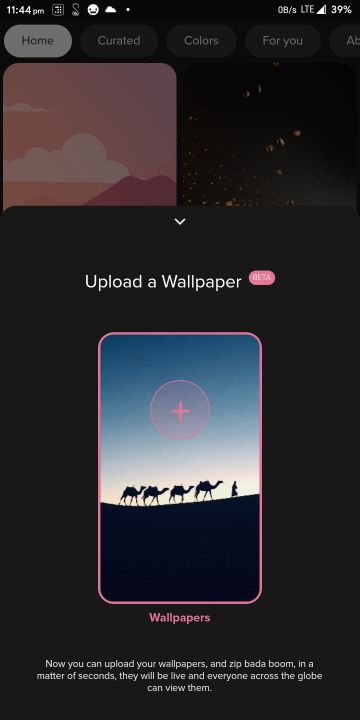
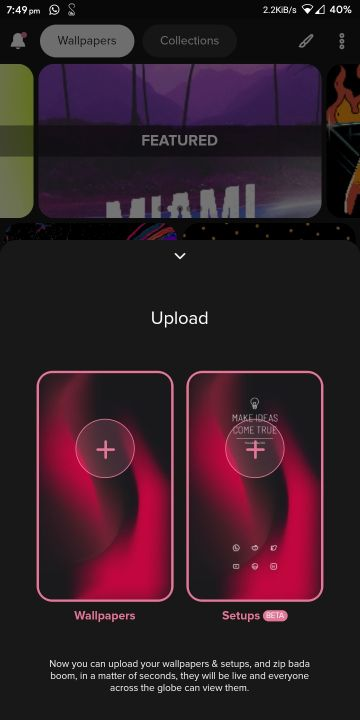
updated readme

diff --git a/README.md b/README.md
@@ -6,7 +6,7 @@
 ![flutter](https://img.shields.io/badge/Flutter-Framework-green?logo=flutter)
 ![Dart](https://img.shields.io/badge/Dart-Language-blue?logo=dart)
 ![Play Store Downloads](https://img.shields.io/badge/Play%20Store%20Downloads-10K+-green.svg)
-![Play Store Rating](https://img.shields.io/badge/Play%20Store%20Rating-4.1-blue.svg)
+![Play Store Rating](https://img.shields.io/badge/Play%20Store%20Rating-3.8-blue.svg)
 ![Size](https://img.shields.io/github/repo-size/Hash-Studios/Prism?color=green)
 ![Release](https://img.shields.io/github/v/release/Hash-Studios/Prism)
 ![License](https://img.shields.io/github/license/Hash-Studios/Prism)
@@ -20,9 +20,9 @@ Prism offers an exclusive collection of wallpapers that are beautifully hand-cra
 
 Prism relies on its Community and [WallHaven](https://wallhaven.cc/help/api) and [Pexels](https://www.pexels.com/api/) APIs as its source of beautiful and large collection of Wallpapers. By utilizing their API, it provides the user with a fast and smooth experience filled with subtle animations and minimal design. The main goal of Prism is to make the smartphone customization experience, smooth and easy, yet giving the users amazing wallpapers, and features like downloading infinite (as much your storage allows) wallpapers or sharing the ones they like with others.
 
-Now users can upload wallpapers, which will be shown in the Community section. They can also view the wallpapers they uploaded in the Profile section. We generally take upto 24 hours for reviewing every wallpaper, but premium users get their wallpapers reviewed instantly.
+Now users can upload wallpapers & setups, which will be shown in the Community section. They can also view the wallpapers they uploaded in the Profile section and the setups in the setups section. We generally take upto 24 hours for reviewing every wallpaper/setup, but premium users get their wallpapers reviewed instantly.
 
-Prism offers a never-ending feed of wallpapers on its home screen. It also has a Curated section that is filled with the best photos/wallpapers updated every day. It also features categories like Abstract, Nature, 4K, Art, Landscape, Minimal, Space, Neon, etc. if you are into these. Then it allows one to find wallpapers based on colors, i.e. you can find wallpapers with a color that matches your icons or home screen setup. Not even that, it also shows you a palette of colors from any wallpaper in the app, on clicking which you can find wallpapers of that specific color.
+Prism offers a never-ending feed of wallpapers on its home screen. It also has a Curated section that is filled with the best photos/wallpapers updated every day. It also features categories like Abstract, Nature, 4K, Art, Landscape, Minimal, Space, Neon, etc. if you are into these. It also offers predefined exclusive collections made by us like, Mesh Gradients, Fluids, Space and more. Then it allows one to find wallpapers based on colors, i.e. you can find wallpapers with a color that matches your icons or home screen setup. Not even that, it also shows you a palette of colors from any wallpaper in the app, on clicking which you can find wallpapers of that specific color.
 
 Main features like finding, downloading and setting up wallpapers don't require Google Sign In, while features like Favourites require you to sign up using Google. This signup is facilitated by Google Firebase, so it is secure and we only get your name, email, and profile photo for identification purposes. The app also has Dark Mode, if you want to save your phone's battery while getting in love with those wallpapers. The app also allows users to share wallpapers with others by giving them a unique link for every wallpaper, using Firebase Dynamic Links so that anyone can directly view the wallpaper.
 
@@ -34,7 +34,8 @@ You get access to Variants (Set up to 5 color variants of each wallpaper!) and S
 Your uploads are also reviewed instantly, rather than the 24 hours time constraint in the free version.
 You also get a PRO badge in front of your profile, plus you directly support the development of this forever ad-free app.
 
-- The ability to view setups (only 5 are present in the free version)
+- Get exclusive setups (ultra-premium look)
+- Get exclusive collections
 - The ability to set variants of wallpapers
 - Get PRO badge in front of your profile
 - Get uploads reviewed instantly
@@ -68,7 +69,7 @@ Follow us there to stay notified. [https://twitter.com/PrismWallpapers](https://
 - Over 600+ exclusive wallpapers, making it the best selection ever
 - Community wallpapers uploaded by users all-around the world
 - Homescreen setups - Unique and exclusive setups designed with the perfect combination of wallpapers, icon pack and widgets
-- Exclusive collections updated daily
+- Exclusive collections updated daily with premium wallpapers
 - Each wallpaper comes with 5 color variants
 - Dark Mode supported
 - Optional Sign-in
@@ -99,7 +100,7 @@ Full changelog can be found [here](https://github.com/Hash-Studios/Prism/tree/ma
 - Now Download wallpapers even if ads failed to load
 - Redesigned Collections' screen
 - Redesigned Setups' Browser
-- Added option to disable Wallpaper Optimisation
+- Added option to disable Wallpaper Optimisation (Save walls in max resolution)
 - Now Upload Setups in-app
 - Redesigned Clock Overlay
 - Fixed Pexels API not working
@@ -122,9 +123,9 @@ Full changelog can be found [here](https://github.com/Hash-Studios/Prism/tree/ma
 | :-------------:  | :-------------: | :-------------:       | :-------------:  | :-------------:  |
 |  Upload Popup    |    Edit Wallpaper       |  Uploading Wallpaper    | Uploader's Profile   |     Scroll to Top Button       |
 
-| ![](demo/70.jpg) | ![](demo/69.jpg) | ![](demo/87.jpg)| ![](demo/72.jpg) | ![](demo/71.jpg) |
+| ![](demo/70.jpg) | ![](demo/69.jpg) | ![](demo/87.jpg)| ![](demo/72.jpg) | ![](demo/90.jpg) |
 | :-------------: | :-------------: | :-------------: | :-------------:  | :-------------:  |
-|     Categories     |     Collections    | Collection (Shapes)  |    Notifications     |     Textures       |
+|     Categories     |     Collections    | Collection (Shapes)  |    Notifications     |     Setup Upload       |
 
 | ![](demo/63.jpg) | ![](demo/89.jpg) | ![](demo/37.jpg)       | ![](demo/38.jpg)  | ![](demo/67.jpg)|
 | :-------------:  | :-------------:  | :-------------:       | :-------------:  | :-------------: |
@@ -197,6 +198,7 @@ The following packages are needed for the development of this application.
 - `image_editor: ^0.7.1` for editing wallpapers during upload
 - `extended_image: ^0.9.0` for cropping wallpapers before uploading
 - `device_info: ^0.4.2+7` for getting device info for bug reports
+- `firebase_storage: ^3.1.5` for storing setups
 
 More details about these can be found in the [`pubspec.yaml`](https://github.com/Hash-Studios/Prism/tree/master/pubspec.yaml) file.
 
